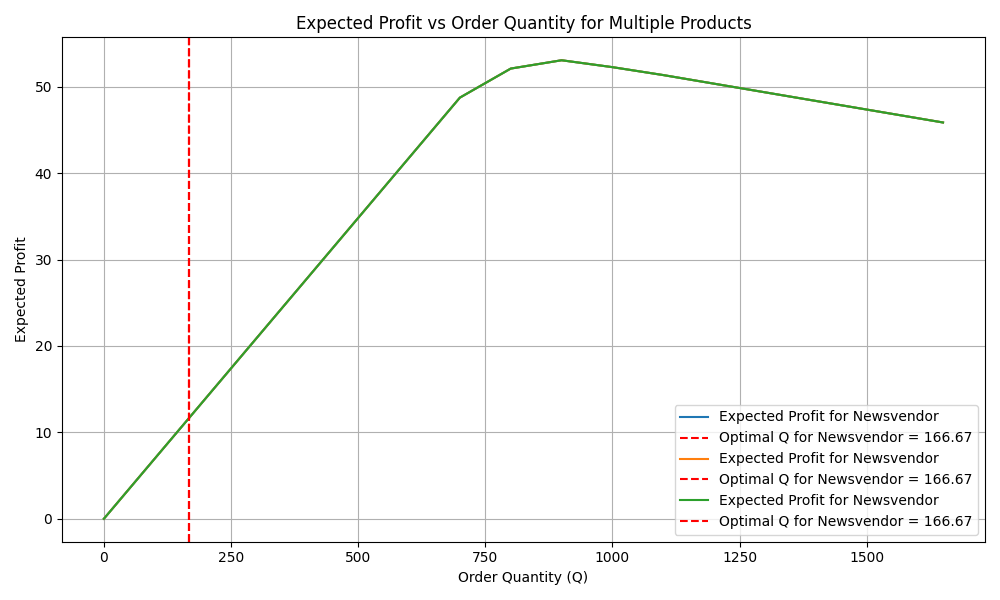
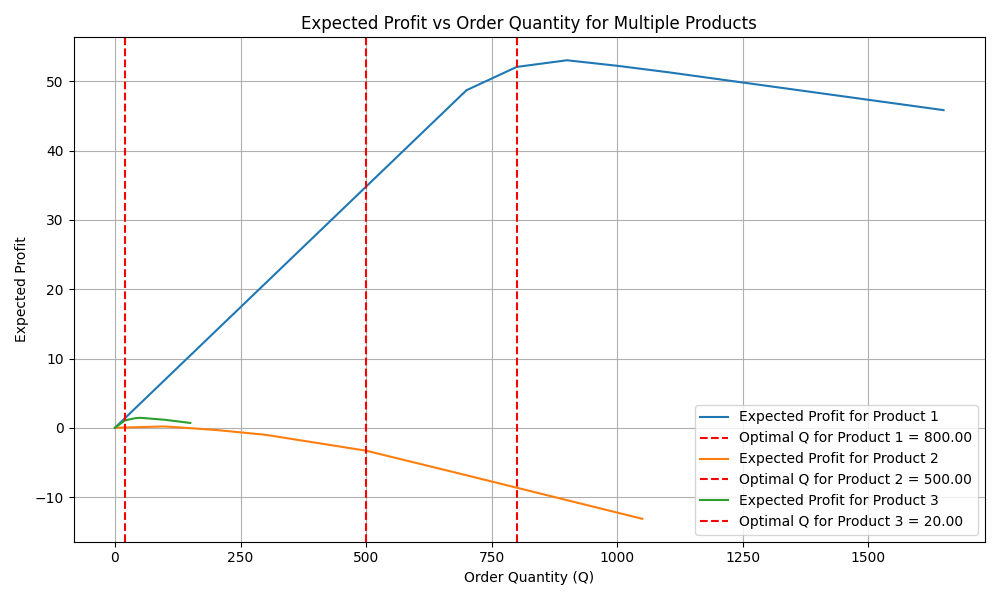
Better example values

diff --git a/newsvendor_opt_problem3_multiple_products.py b/newsvendor_opt_problem3_multiple_products.py
@@ -101,32 +101,32 @@ if __name__ == "__main__":
         {"demand": 1100, "prob": 0.010},
     ]
     scenarios2 = [
-        {"demand": 700, "prob": 0.450},
-        {"demand": 800, "prob": 0.300},
-        {"demand": 900, "prob": 0.220},
-        {"demand": 1000, "prob": 0.015},
-        {"demand": 1100, "prob": 0.010},
+        {"demand": 100, "prob": 0.350},
+        {"demand": 200, "prob": 0.100},
+        {"demand": 300, "prob": 0.220},
+        {"demand": 500, "prob": 0.315},
+        {"demand": 700, "prob": 0.010},
     ]
     scenarios3 = [
-        {"demand": 700, "prob": 0.450},
-        {"demand": 800, "prob": 0.300},
-        {"demand": 900, "prob": 0.220},
-        {"demand": 1000, "prob": 0.015},
-        {"demand": 1100, "prob": 0.010},
+        {"demand": 20, "prob": 0.750},
+        {"demand": 40, "prob": 0.200},
+        {"demand": 50, "prob": 0.220},
+        {"demand": 60, "prob": 0.015},
+        {"demand": 100, "prob": 0.060},
     ]
 
     costs1 = {"cost": 0.005}  # per unit cost
     price1 = 0.08  # selling price
-    costs2 = {"cost": 0.005}  # per unit cost
-    price2 = 0.08  # selling price
-    costs3 = {"cost": 0.005}  # per unit cost
-    price3 = 0.08  # selling price
+    costs2 = {"cost": 0.009}  # per unit cost
+    price2 = 0.02  # selling price
+    costs3 = {"cost": 0.004}  # per unit cost
+    price3 = 0.05  # selling price
 
     problem = GraphProblemClass("NewsvendorProblem")
-    connection = ClusterNode(None, budget=1000, supplier_capacity=500)
-    product1 = NewsvendorNode(None, scenarios1, costs1, price1)
-    product2 = NewsvendorNode(None, scenarios2, costs2, price2)
-    product3 = NewsvendorNode(None, scenarios3, costs3, price3)
+    connection = ClusterNode(None, budget=1000, supplier_capacity=5000)
+    product1 = NewsvendorNode(None, scenarios1, costs1, price1, "Product 1")
+    product2 = NewsvendorNode(None, scenarios2, costs2, price2, "Product 2")
+    product3 = NewsvendorNode(None, scenarios3, costs3, price3, "Product 3")
     connection.connect(product1)
     connection.connect(product2)
     connection.connect(product3)
